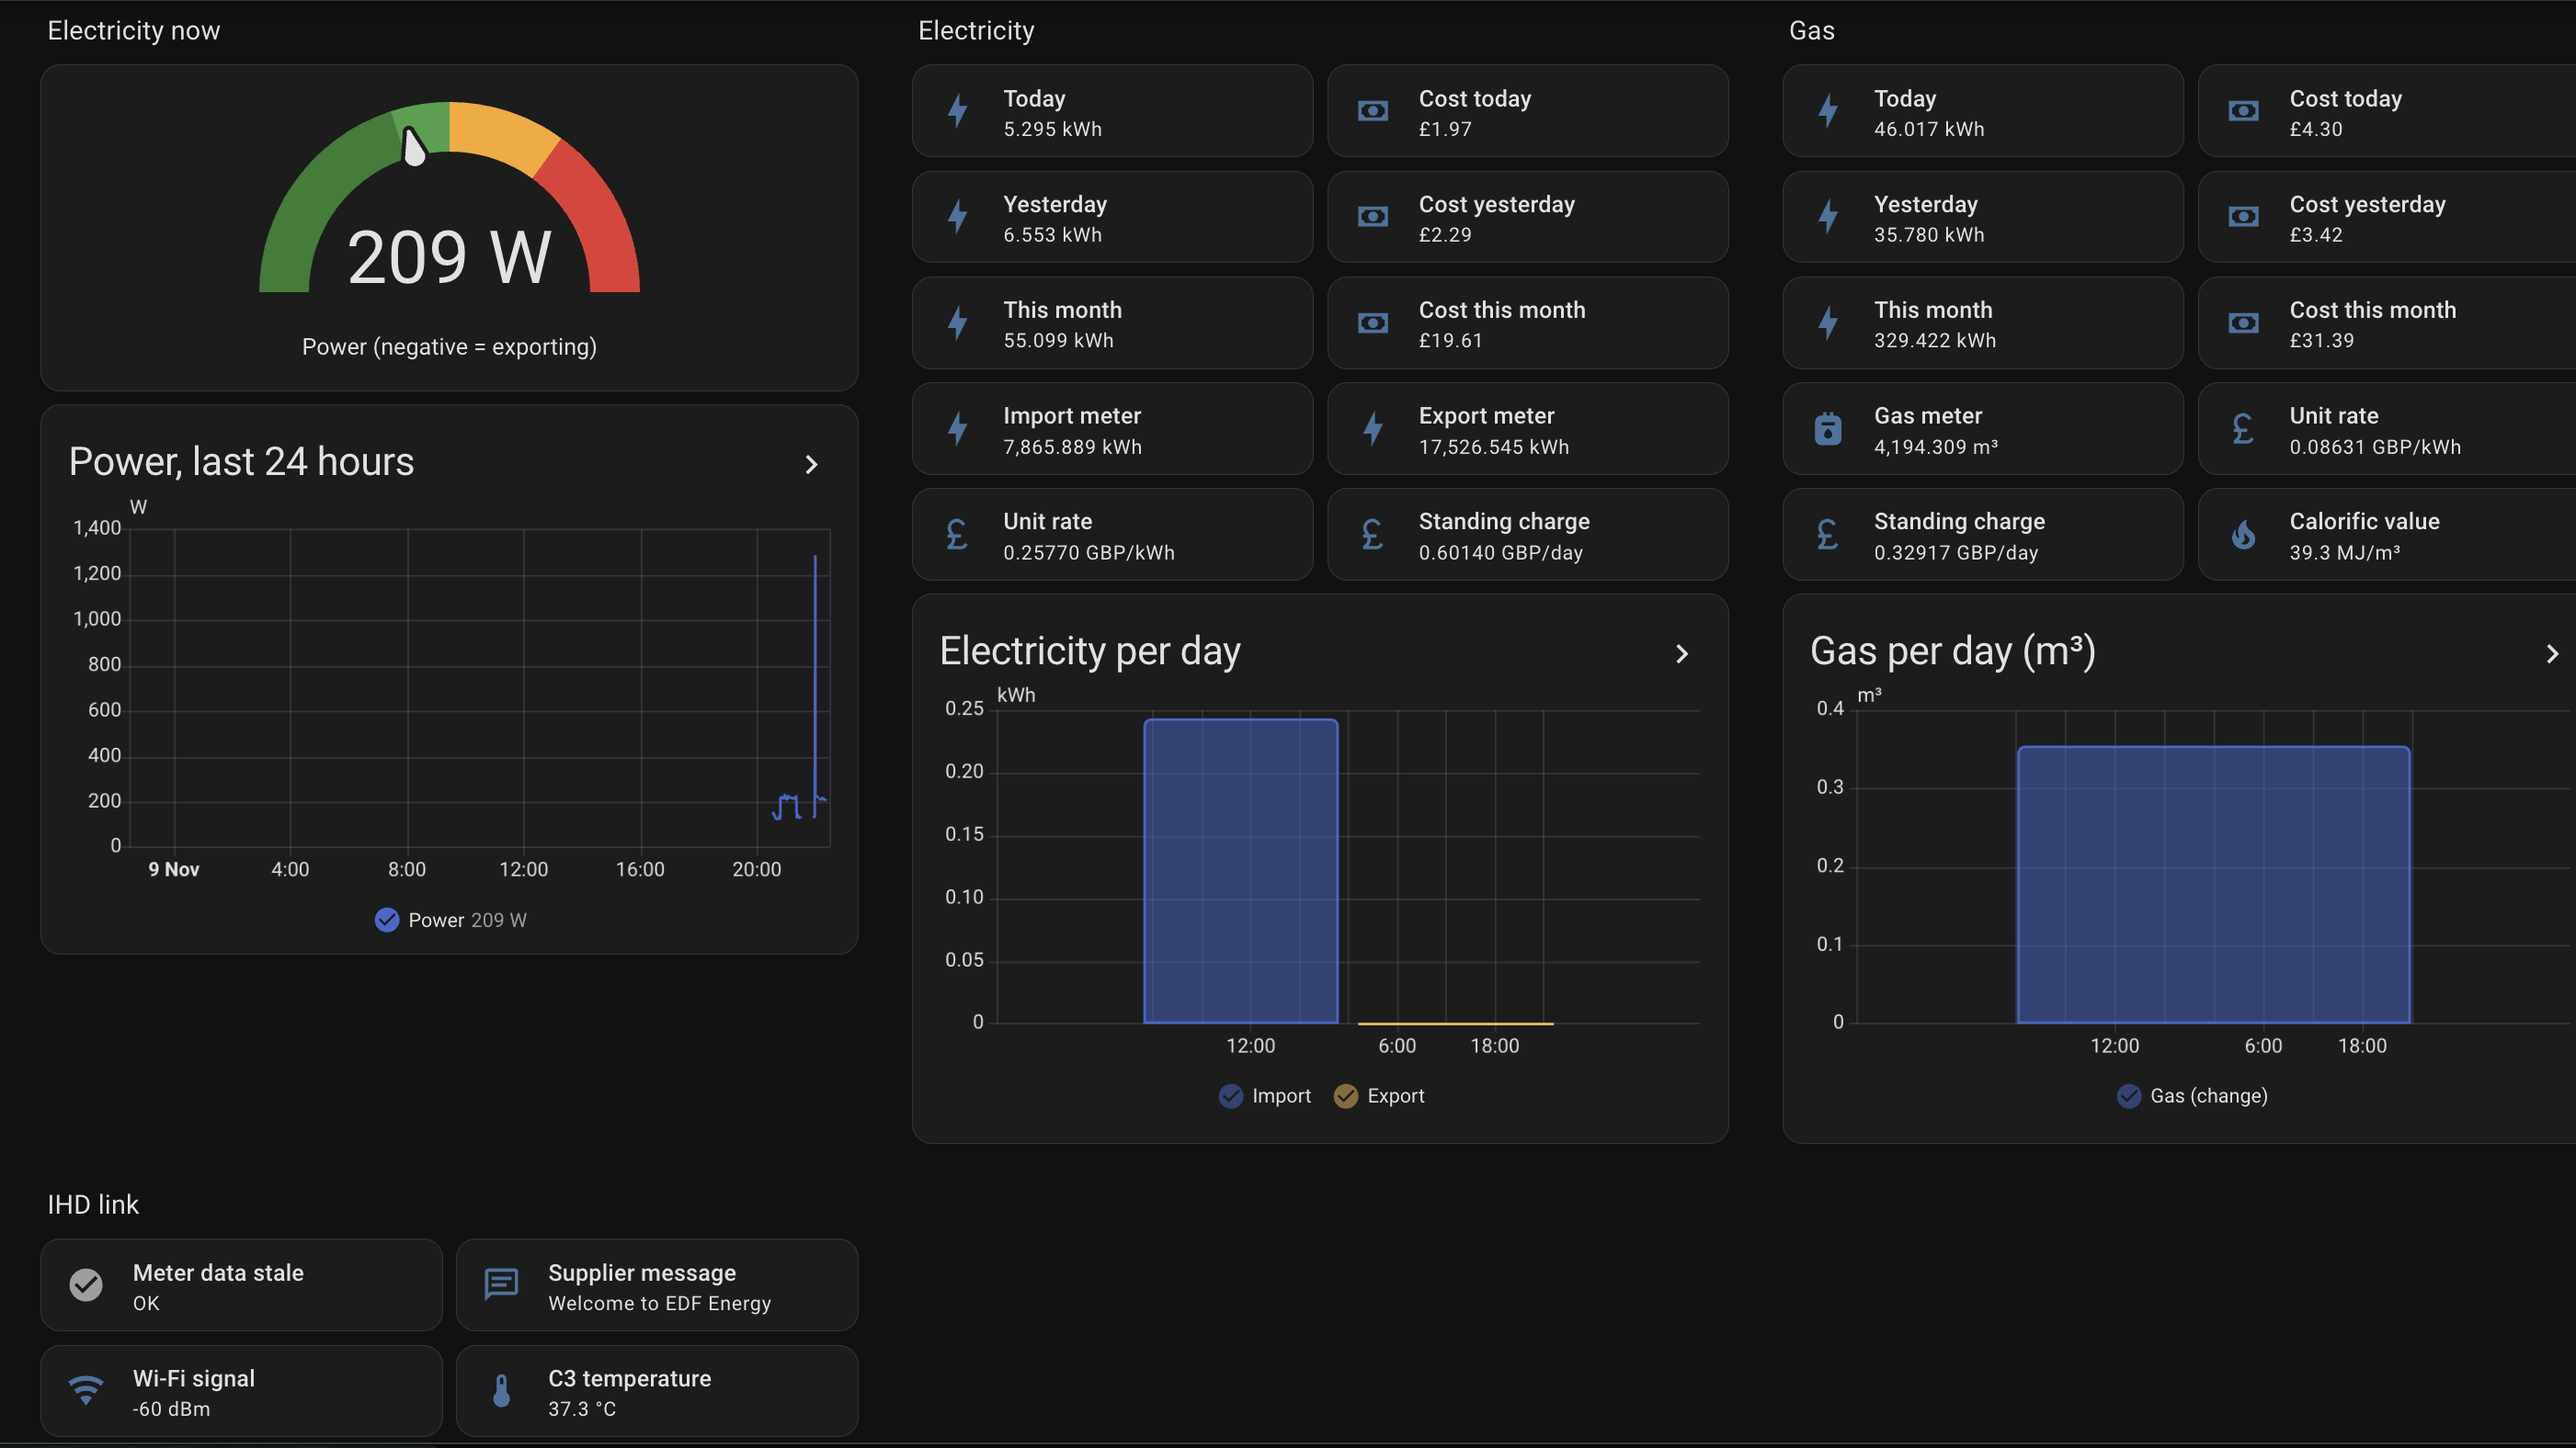
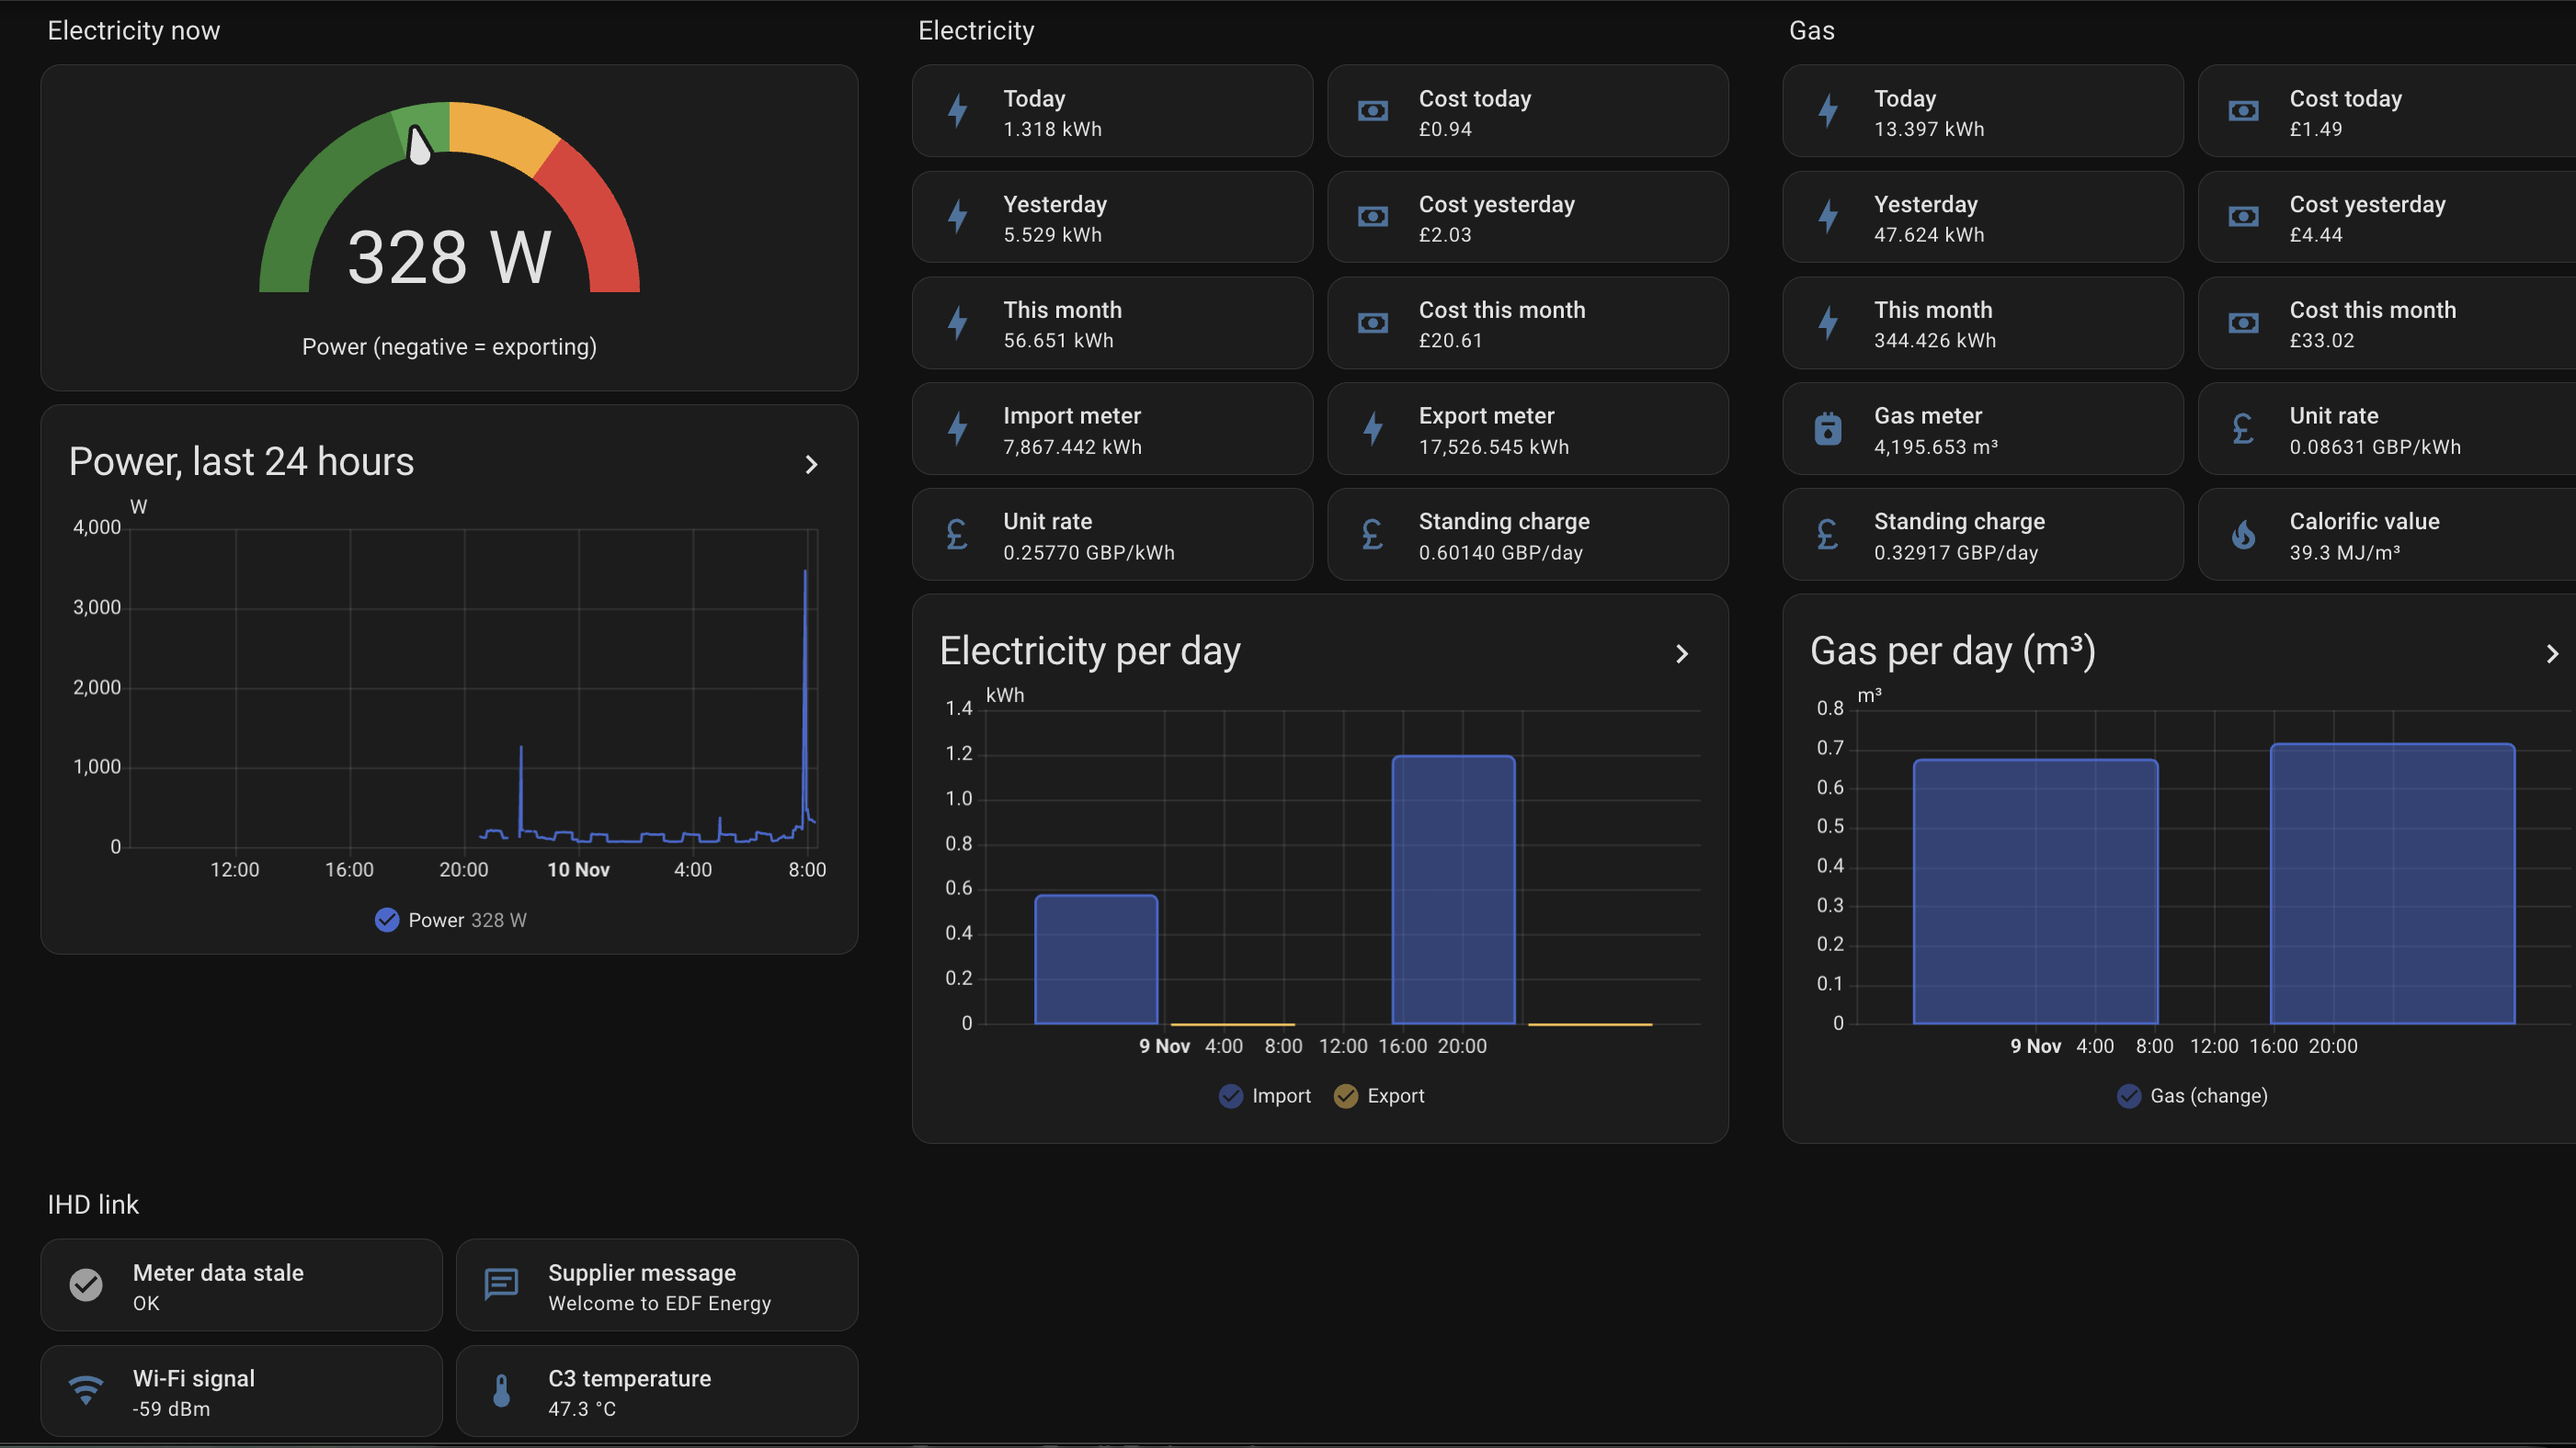
Confirm overnight refresh of yesterday values; update dashboard screenshot
Claude-Session: https://claude.ai/code/session_01LhromgQ1MkifvoWLcBZdhR

diff --git a/README.md b/README.md
@@ -23,7 +23,7 @@ All of it matched the IHD's own screens:
 | Tariff, from the meter | unit rate, standing charge | unit rate (per kWh and per m³), standing charge, calorific value, conversion factor |
 | Other | supplier messages ("Welcome to EDF Energy"), link frame and CRC-error counters, a "meter data stale" alarm | |
 
-Costs include the standing charge and match the bill. The tariff, calorific value and conversion factor are saved in the C3's flash, so they survive a C3 reboot even when the IHD (which has a battery) doesn't restart and resend them.
+Costs include the standing charge and match the bill. The "yesterday" values update by themselves just after midnight. The tariff, calorific value and conversion factor are saved in the C3's flash, so they survive a C3 reboot even when the IHD (which has a battery) doesn't restart and resend them.
 
 ## How it works
 
@@ -100,7 +100,6 @@ PRs and captures welcome:
 
 * **Solar export:** live power is a signed value and should go negative while exporting, but that hasn't been captured yet.
 * **Gas daily values** (today kWh/£) arrive in the start-up burst and also refresh on their own. The exact interval hasn't been measured.
-* **Midnight:** the "yesterday" values and tariff probably resend just after midnight (they do on the Trio II); not yet confirmed. Until then, a full IHD restart (USB **and** battery) fills them in.
 * **Message types `01`, `A1`, `A2`, `DA`, `E0`** look like link housekeeping. Their meaning is unknown.
 * **J6 and J13:** J13 is probably the RT1062 debug console. J6's role is unknown.
 * **Other SeeZero firmware or board revisions, other suppliers, and time-of-use tariffs** haven't been tested.

diff --git a/docs/protocol.md b/docs/protocol.md
@@ -125,7 +125,8 @@ The body is a fixed-layout structure (the host's own struct, not the ZCL wire fo
 * Electricity power, readings, today/week/month: every **10 s**.
 * Electricity costs: every **~15 s**.
 * Gas meter reading (m³): every **120 s** (it only changes every 30 min).
-* Tariff, gas CV/CF, gas daily kWh and costs, and all history: in a burst **~15–40 s after the IHD powers up**. On the Trio II these also repeat just after midnight; not yet confirmed here.
+* Tariff, gas CV/CF, gas daily kWh and costs, and all history: in a burst **~15–40 s after the IHD powers up**.
+* "Yesterday" values (`0403`, `0C03`, `051E`) refresh by themselves **just after midnight** (confirmed). Gas today and cost also refresh periodically during the day.
 
 ## Cross-checks against the IHD screen
 
